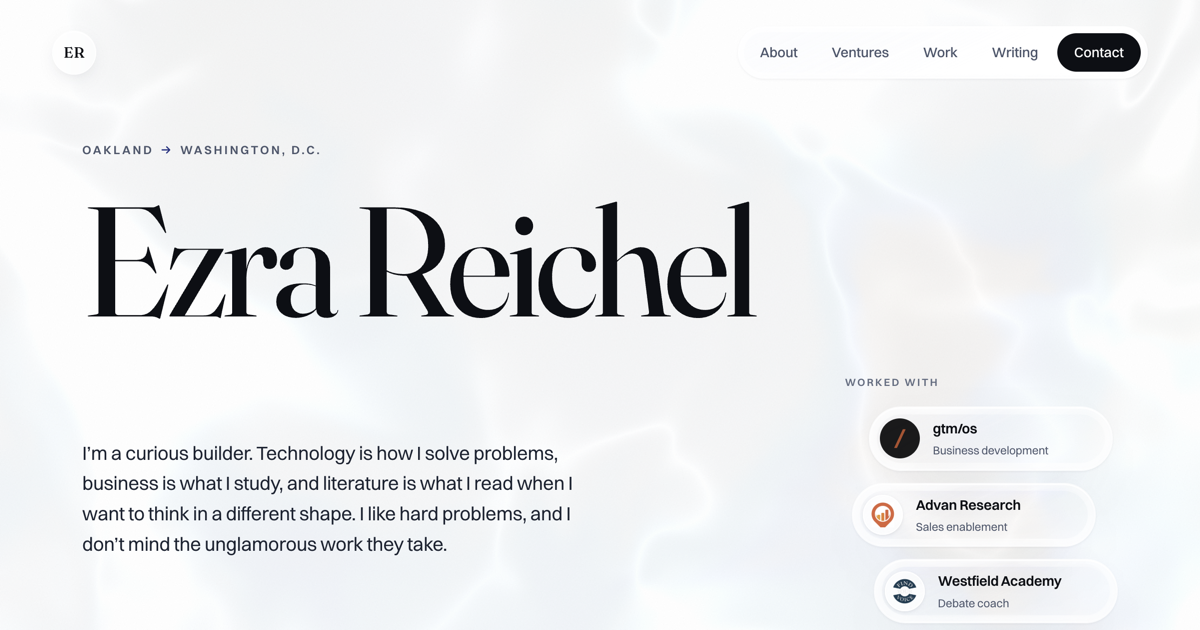
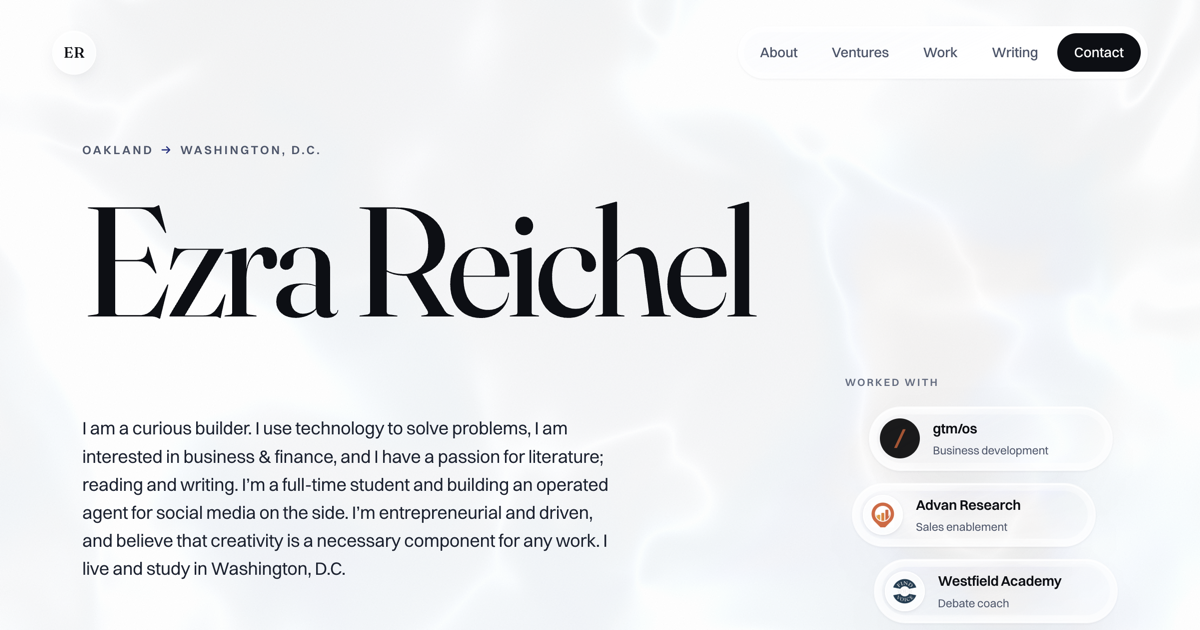
Use Ezra's own words for the hero blurb
Verbatim apart from two typo fixes (problems, entrepreneurial). Lead
column widens to 52ch and drops a hair in size so the longer copy still
sits beside the floating marks without pushing the hero past the fold.

Claude-Session: https://claude.ai/code/session_011bWu6tcbz1u7fBmP9tE5J6

Changed region(s): [[0.0617, 0.6635, 0.5242, 0.9349]]

diff --git a/index.html b/index.html
@@ -7,7 +7,7 @@
 <meta name="description" content="Ezra Reichel is a builder and student of international business at George Washington University. Founder of Aethelstan and TradeLead, business development at gtm/os.">
 <meta name="author" content="Ezra Reichel">
 <meta property="og:title" content="Ezra Reichel">
-<meta property="og:description" content="Curious builder. I solve problems with technology, study business, and read literature.">
+<meta property="og:description" content="I am a curious builder. I use technology to solve problems, I am interested in business and finance, and I have a passion for literature.">
 <meta property="og:type" content="profile">
 <meta property="og:image" content="assets/img/og.png">
 <meta name="twitter:card" content="summary_large_image">
@@ -60,10 +60,12 @@
     <h1 class="reveal delay-1">Ezra&nbsp;Reichel</h1>
     <div class="hero-body reveal delay-2">
       <p class="lead">
-        I&rsquo;m a curious builder. Technology is how I solve problems, business is
-        what I study, and literature is what I read when I want to think in a
-        different shape. I like hard problems, and I don&rsquo;t mind the unglamorous
-        work they take.
+        I am a curious builder. I use technology to solve problems, I am interested
+        in business &amp; finance, and I have a passion for literature; reading and
+        writing. I&rsquo;m a full-time student and building an operated agent for social
+        media on the side. I&rsquo;m entrepreneurial and driven, and believe that
+        creativity is a necessary component for any work. I live and study in
+        Washington, D.C.
       </p>
 
       <div class="orbit">

diff --git a/styles.css b/styles.css
@@ -322,11 +322,11 @@ a { color: inherit; }
 }
 
 .lead {
-  font-size: clamp(1.1rem, 1.6vw, 1.38rem);
+  font-size: clamp(1.05rem, 1.5vw, 1.3rem);
   font-weight: 400;
-  line-height: 1.58;
+  line-height: 1.56;
   color: #1C2230;
-  max-width: 46ch;
+  max-width: 52ch;
   margin: 0;
   letter-spacing: -0.011em;
 }
